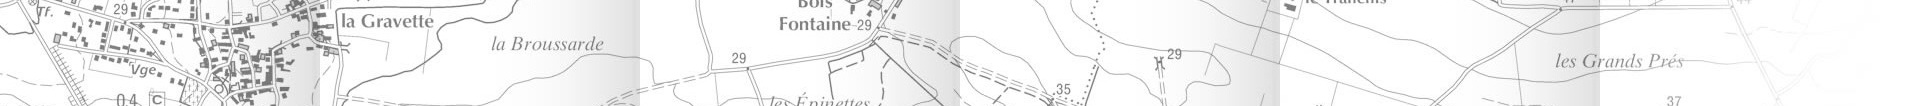
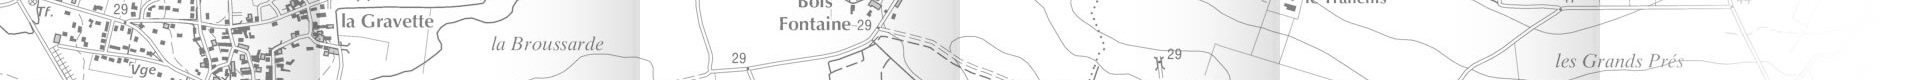
Modify web site design

diff --git a/src/site/resources/css/site.css b/src/site/resources/css/site.css
@@ -1,7 +1,7 @@
 
 
 #banner {
-    height: 106px;
+    height: 80px;
     background: url(../images/fond_carte_ign.jpg);
     /* background-repeat:no-repeat; */
     width: 100%;
